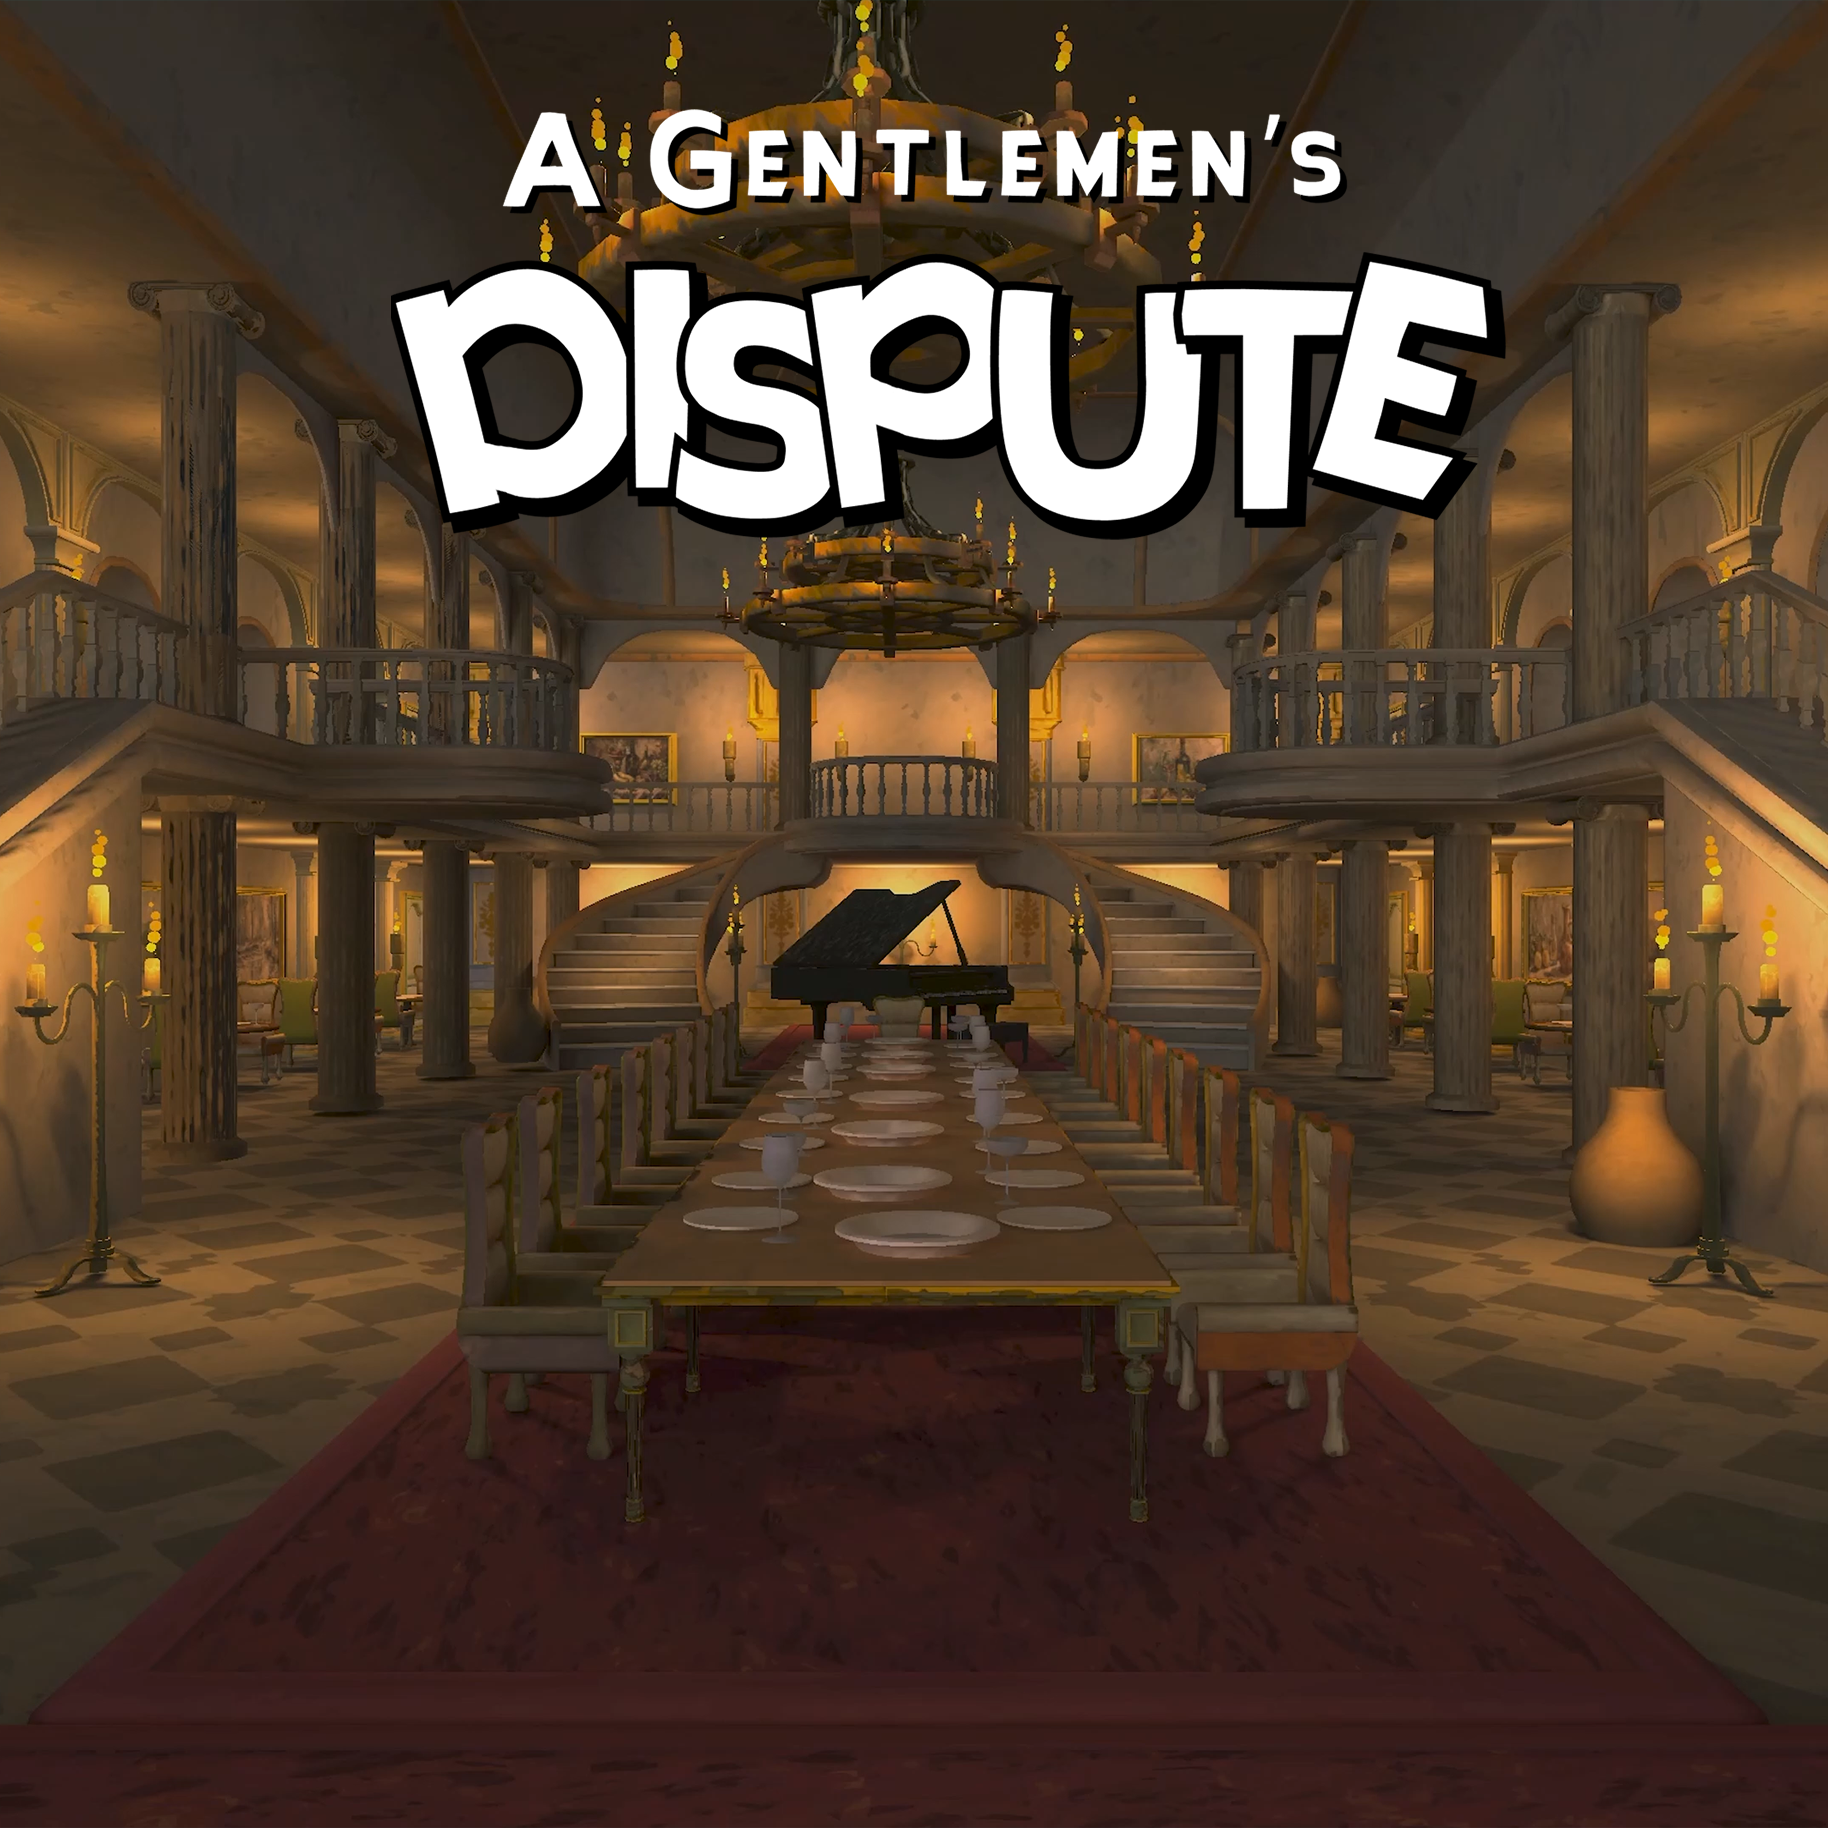
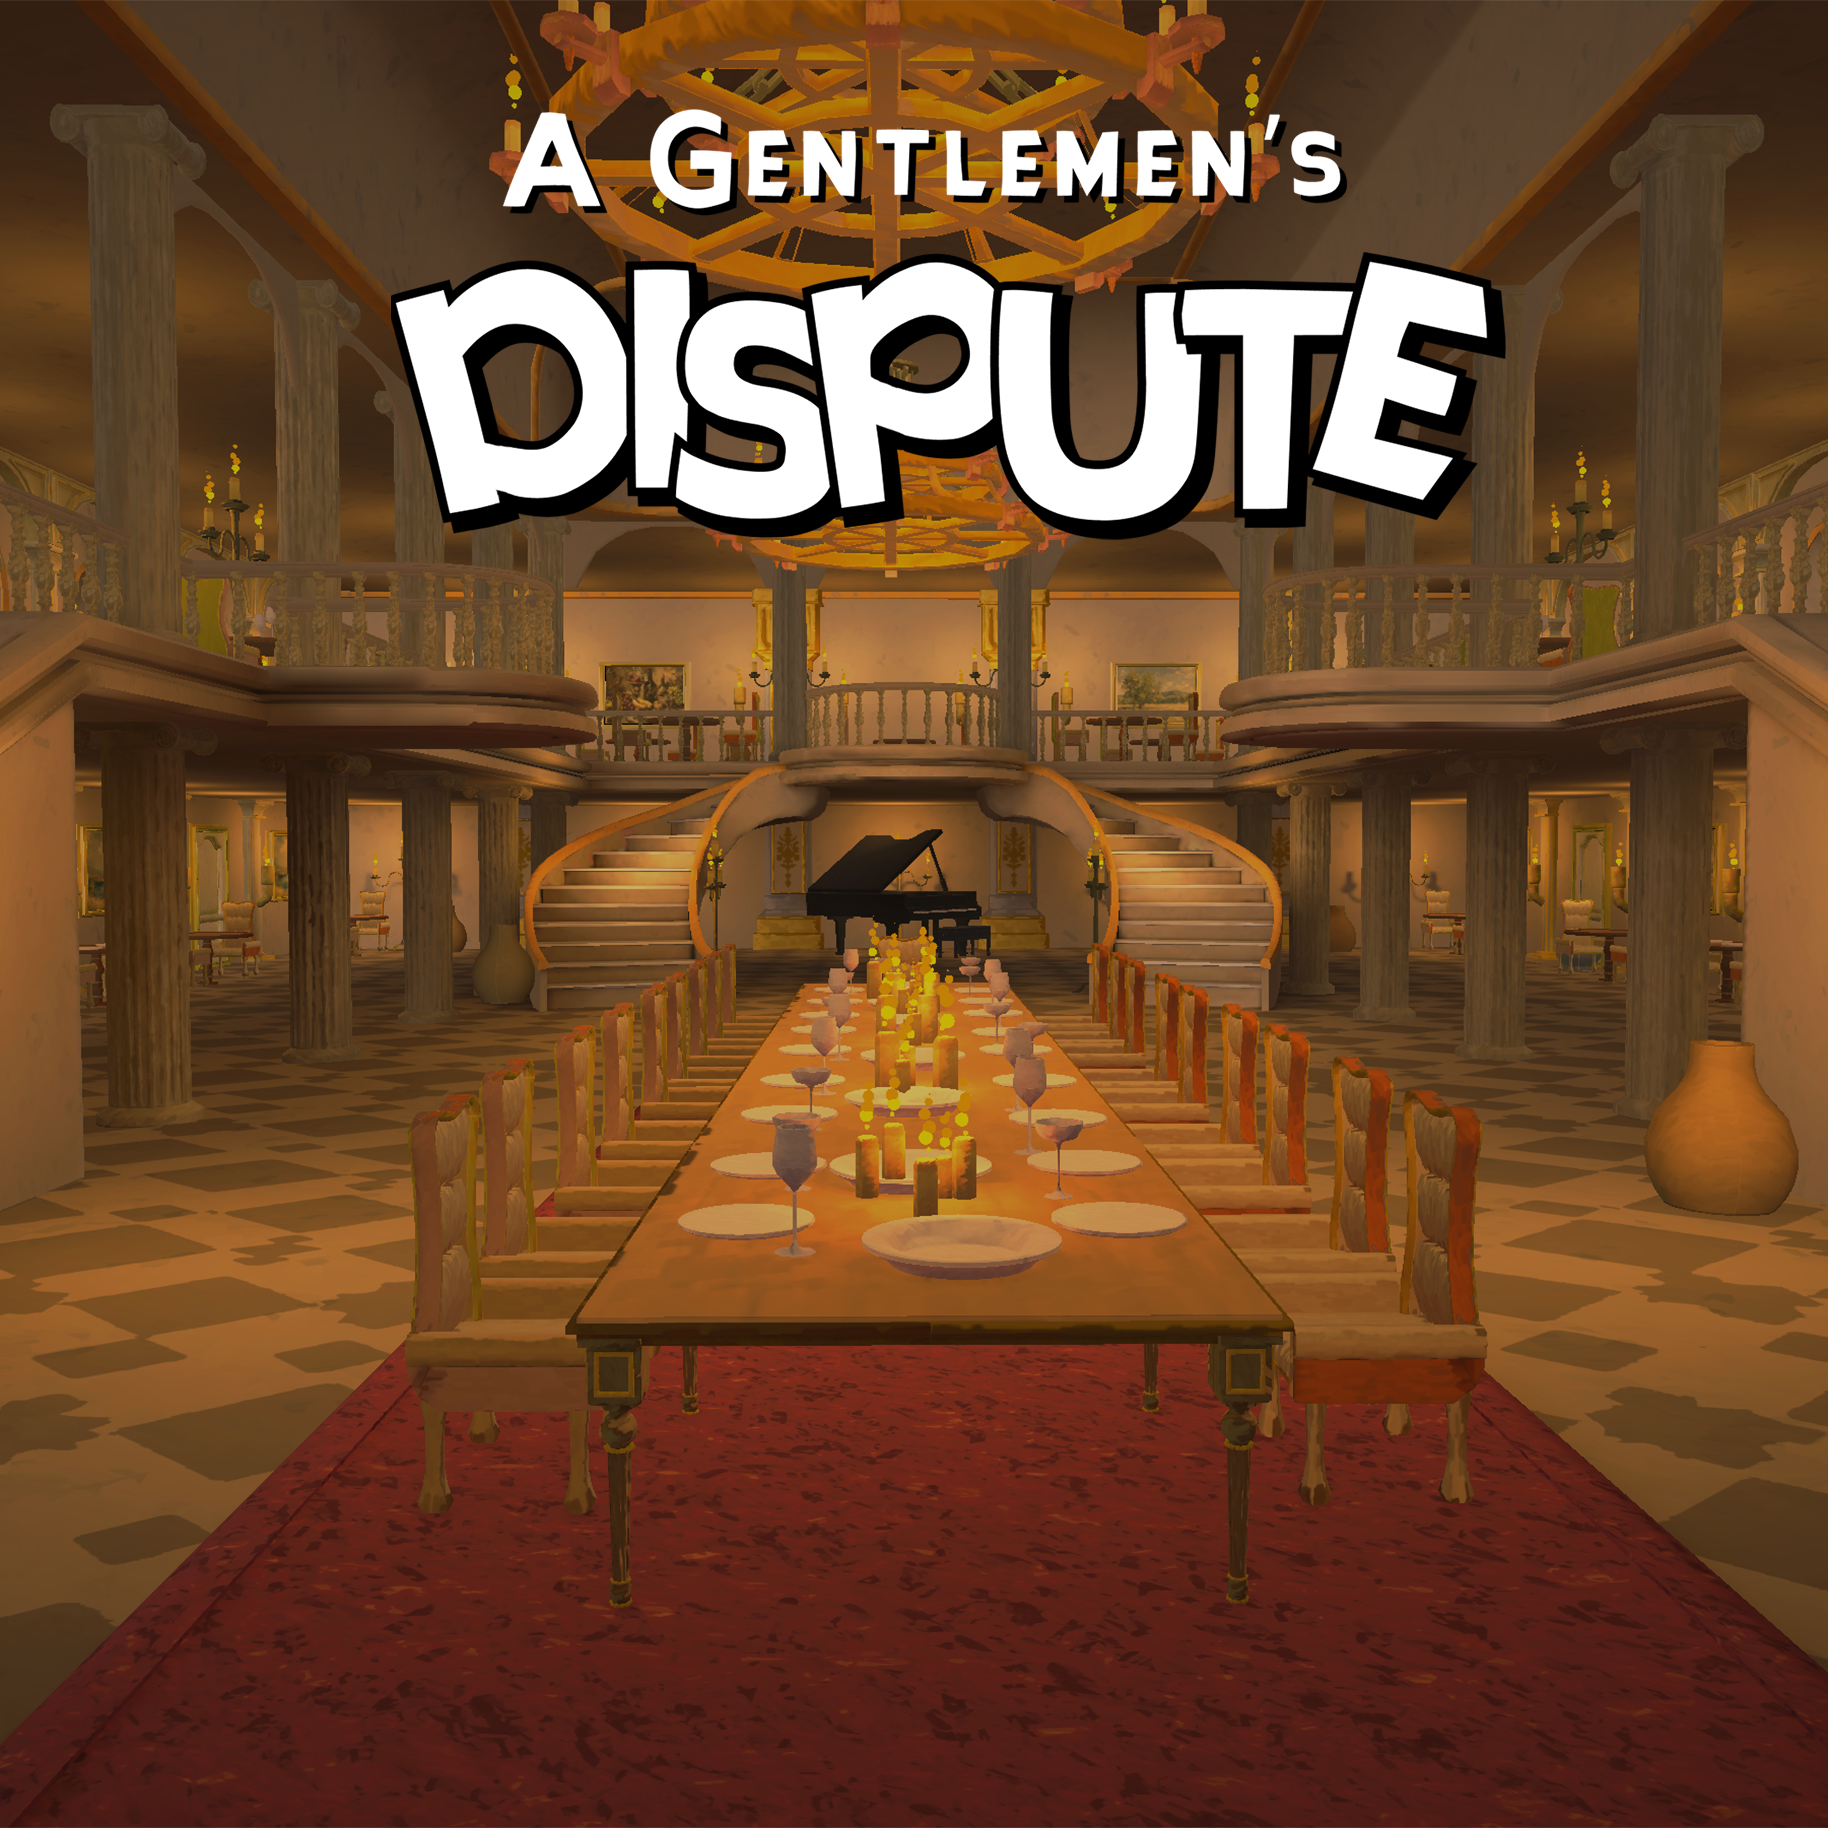
ballroom

diff --git a/_site/projects/agd/banquet-hall.html b/_site/projects/agd/banquet-hall.html
@@ -6,7 +6,7 @@
     <meta charset='utf-8'>
     <meta http-equiv="X-UA-Compatible" content="IE=edge">
     <meta name="viewport" content="width=device-width,maximum-scale=2">
-    <link rel="stylesheet" type="text/css" media="screen" href="/assets/css/style.css?v=e59b4e9a53c7caacb549c33bfa8aca94827cb23b">
+    <link rel="stylesheet" type="text/css" media="screen" href="/assets/css/style.css?v=abd233e458267bac9c2d311b64855ee965264efe">
 
   <!-- Begin Jekyll SEO tag v2.8.0 -->
 <title>Banquet Hall | Portfolio</title>
@@ -74,9 +74,39 @@
       <section id="main_content" class="inner">
         <h2 id="banquet-hall">Banquet Hall</h2>
 
-<p>Banquet hall is the second map for A Gentlemen’s Dispute. I had fun creating a highly decorated place for players to mess up! Most of the models are using the same painterly pipeline. This map is fully interior, so I am taking full adventage of light map baking to create realistic lighting. The lighting design in this map references classic royal dinners to make the place more “gentlemenly”.
-The torch fire VFX is created by our amazing VFX artist Kevin.</p>
+<p>Banquet hall is the second map for A Gentlemen’s Dispute. I had fun creating a highly decorated place for players to mess up! Most of the models are using the same painterly pipeline. This map is fully interior, so I am taking full adventage of light map baking to create realistic lighting. The lighting design in this map references classic royal dinners to make the place more “gentlemenly”.</p>
 
+<p>The torch fire VFX is created by our amazing VFX artist Kevin.</p>
+
+<p>All images or videos are directly taken from unity.</p>
+
+<p><img src="/assets/images/AGD/Banquethall_1.png" alt="Banquet hall 1" /></p>
+
+<p><img src="/assets/images/AGD/Banquethall_2.png" alt="Banquet hall 2" /></p>
+
+<p><img src="/assets/images/AGD/Banquethall_3.png" alt="Banquet hall 3" /></p>
+
+<p><img src="/assets/images/AGD/Banquethall_4.png" alt="Banquet hall 4" /></p>
+
+<p><img src="/assets/images/AGD/Banquethall_5.png" alt="Banquet hall 5" /></p>
+
+<p><img src="/assets/images/AGD/Banquethall_6.png" alt="Banquet hall 6" /></p>
+
+<p><img src="/assets/images/AGD/Banquethall_7.png" alt="Banquet hall 7" /></p>
+
+<h3 id="breakdown">Breakdown</h3>
+
+<p>Props modelled in Blender and textured in Substance Designer under the same painterly pipeline.</p>
+
+<p><img src="/assets/images/AGD/Banquethall_assets.png" alt="Banquet hall assets" /></p>
+
+<p>Paintings are AI-generated based on player characters with a European classic protrait style. It is then applied with the same painterly filter to match the style.</p>
+
+<p><img src="/assets/images/AGD/Banquethall_paintings.png" alt="Banquet hall paintings" /></p>
+
+<p>References for ornates and furnatures.</p>
+
+<p><img src="/assets/images/AGD/Banquethall_ref.png" alt="Banquet hall references" /></p>
 
       </section>
     </div>

diff --git a/_site/projects/agd/garden.html b/_site/projects/agd/garden.html
@@ -6,7 +6,7 @@
     <meta charset='utf-8'>
     <meta http-equiv="X-UA-Compatible" content="IE=edge">
     <meta name="viewport" content="width=device-width,maximum-scale=2">
-    <link rel="stylesheet" type="text/css" media="screen" href="/assets/css/style.css?v=e59b4e9a53c7caacb549c33bfa8aca94827cb23b">
+    <link rel="stylesheet" type="text/css" media="screen" href="/assets/css/style.css?v=abd233e458267bac9c2d311b64855ee965264efe">
 
   <!-- Begin Jekyll SEO tag v2.8.0 -->
 <title>Garden | Portfolio</title>
@@ -102,11 +102,17 @@
 
   <p>Early concept art exploring royal garden design</p>
 
-  <p><img src="/assets/images/AGD/Garden_moduleRock.png" alt="Garden Rock Module" /></p>
+  <p><img src="/assets/images/AGD/Garden_concept.png" alt="Garden Rock Module" /></p>
 
   <p>I referenced from both outdoor garden design as well as oil paintings to create such a stylized garden scene.</p>
 
-  <p><img src="/assets/images/AGD/Garden_moduleRock.png" alt="Garden Rock Module" /></p>
+</div>
+
+<div class="two-column">
+
+  <p><img src="/assets/images/AGD/Garden_ref_1.png" alt="Garden Reference 1" /></p>
+
+  <p><img src="/assets/images/AGD/Garden_ref_2.png" alt="Garden Reference 2" /></p>
 
 </div>
 

diff --git a/_site/projects/agd/the-blast-furnace.html b/_site/projects/agd/the-blast-furnace.html
@@ -6,7 +6,7 @@
     <meta charset='utf-8'>
     <meta http-equiv="X-UA-Compatible" content="IE=edge">
     <meta name="viewport" content="width=device-width,maximum-scale=2">
-    <link rel="stylesheet" type="text/css" media="screen" href="/assets/css/style.css?v=e59b4e9a53c7caacb549c33bfa8aca94827cb23b">
+    <link rel="stylesheet" type="text/css" media="screen" href="/assets/css/style.css?v=abd233e458267bac9c2d311b64855ee965264efe">
 
   <!-- Begin Jekyll SEO tag v2.8.0 -->
 <title>The Blast Furnace | Portfolio</title>
@@ -77,6 +77,8 @@
   <h2 id="the-blast-furnace">The Blast Furnace</h2>
 
   <p>Living in Pittsburgh, I am deeply inspired by the Carrie Blast Furnace Landmark and have always wanted to recreate this historic moment in the game. To better understand how blast furnaces work, I paid for several on-site visits and researched their mechanism and role in steel production. It was exciting to see everything come together in the game, and I definitely couldn’t wait to see chaotic fights in such a hazardous place!</p>
+
+  <p>All images or videos are directly taken from unity.</p>
 
   <p><img src="/assets/images/AGD/Factory_1.png" alt="Factory 1" /></p>
 

diff --git a/_site/projects/agd/island.html b/_site/projects/agd/island.html
@@ -6,7 +6,7 @@
     <meta charset='utf-8'>
     <meta http-equiv="X-UA-Compatible" content="IE=edge">
     <meta name="viewport" content="width=device-width,maximum-scale=2">
-    <link rel="stylesheet" type="text/css" media="screen" href="/assets/css/style.css?v=e59b4e9a53c7caacb549c33bfa8aca94827cb23b">
+    <link rel="stylesheet" type="text/css" media="screen" href="/assets/css/style.css?v=abd233e458267bac9c2d311b64855ee965264efe">
 
   <!-- Begin Jekyll SEO tag v2.8.0 -->
 <title>Island | Portfolio</title>
@@ -76,6 +76,8 @@
 
   <h2 id="island">Island</h2>
   <p>I had fun creating a relaxing vacation beach scene. Since a large proportion of the level is going to be water, I spent most time creating a custom water shader. It has fully adjustable parameters to control the caustic pattern as well as the wave movement. Besides, this is a bigger level, so working in modular mindset is key. Thus, I modelled wooden planks and rocks in different variations, which I could later use to create wooden structures and rock cliffs.</p>
+
+  <p>All images or videos are directly taken from unity.</p>
 
   <p><img src="/assets/images/AGD/Island_1.png" alt="Island 1" /></p>
 

diff --git a/_site/projects/agd/pancake-palace.html b/_site/projects/agd/pancake-palace.html
@@ -6,7 +6,7 @@
     <meta charset='utf-8'>
     <meta http-equiv="X-UA-Compatible" content="IE=edge">
     <meta name="viewport" content="width=device-width,maximum-scale=2">
-    <link rel="stylesheet" type="text/css" media="screen" href="/assets/css/style.css?v=e59b4e9a53c7caacb549c33bfa8aca94827cb23b">
+    <link rel="stylesheet" type="text/css" media="screen" href="/assets/css/style.css?v=abd233e458267bac9c2d311b64855ee965264efe">
 
   <!-- Begin Jekyll SEO tag v2.8.0 -->
 <title>Pancake Palace | Portfolio</title>
@@ -74,6 +74,7 @@
       <section id="main_content" class="inner">
         <h2 id="pancake-palace">Pancake Palace</h2>
 
+<p>All images or videos are directly taken from unity.</p>
 
       </section>
     </div>

diff --git a/_site/projects/agd/metro.html b/_site/projects/agd/metro.html
@@ -6,7 +6,7 @@
     <meta charset='utf-8'>
     <meta http-equiv="X-UA-Compatible" content="IE=edge">
     <meta name="viewport" content="width=device-width,maximum-scale=2">
-    <link rel="stylesheet" type="text/css" media="screen" href="/assets/css/style.css?v=e59b4e9a53c7caacb549c33bfa8aca94827cb23b">
+    <link rel="stylesheet" type="text/css" media="screen" href="/assets/css/style.css?v=abd233e458267bac9c2d311b64855ee965264efe">
 
   <!-- Begin Jekyll SEO tag v2.8.0 -->
 <title>Metro | Portfolio</title>
@@ -74,6 +74,7 @@
       <section id="main_content" class="inner">
         <h2 id="metro">Metro</h2>
 
+<p>All images or videos are directly taken from unity.</p>
 
       </section>
     </div>

diff --git a/_site/computer-graphics.html b/_site/computer-graphics.html
@@ -6,7 +6,7 @@
     <meta charset='utf-8'>
     <meta http-equiv="X-UA-Compatible" content="IE=edge">
     <meta name="viewport" content="width=device-width,maximum-scale=2">
-    <link rel="stylesheet" type="text/css" media="screen" href="/assets/css/style.css?v=e59b4e9a53c7caacb549c33bfa8aca94827cb23b">
+    <link rel="stylesheet" type="text/css" media="screen" href="/assets/css/style.css?v=abd233e458267bac9c2d311b64855ee965264efe">
 
   <!-- Begin Jekyll SEO tag v2.8.0 -->
 <title>Computer Graphics | Portfolio</title>

diff --git a/_site/tech-art.html b/_site/tech-art.html
@@ -6,7 +6,7 @@
     <meta charset='utf-8'>
     <meta http-equiv="X-UA-Compatible" content="IE=edge">
     <meta name="viewport" content="width=device-width,maximum-scale=2">
-    <link rel="stylesheet" type="text/css" media="screen" href="/assets/css/style.css?v=e59b4e9a53c7caacb549c33bfa8aca94827cb23b">
+    <link rel="stylesheet" type="text/css" media="screen" href="/assets/css/style.css?v=abd233e458267bac9c2d311b64855ee965264efe">
 
   <!-- Begin Jekyll SEO tag v2.8.0 -->
 <title>Tech Art | Portfolio</title>

diff --git a/_site/3d-art.html b/_site/3d-art.html
@@ -6,7 +6,7 @@
     <meta charset='utf-8'>
     <meta http-equiv="X-UA-Compatible" content="IE=edge">
     <meta name="viewport" content="width=device-width,maximum-scale=2">
-    <link rel="stylesheet" type="text/css" media="screen" href="/assets/css/style.css?v=e59b4e9a53c7caacb549c33bfa8aca94827cb23b">
+    <link rel="stylesheet" type="text/css" media="screen" href="/assets/css/style.css?v=abd233e458267bac9c2d311b64855ee965264efe">
 
   <!-- Begin Jekyll SEO tag v2.8.0 -->
 <title>3D Art | Portfolio</title>

diff --git a/_site/projects/camera.html b/_site/projects/camera.html
@@ -6,7 +6,7 @@
     <meta charset='utf-8'>
     <meta http-equiv="X-UA-Compatible" content="IE=edge">
     <meta name="viewport" content="width=device-width,maximum-scale=2">
-    <link rel="stylesheet" type="text/css" media="screen" href="/assets/css/style.css?v=e59b4e9a53c7caacb549c33bfa8aca94827cb23b">
+    <link rel="stylesheet" type="text/css" media="screen" href="/assets/css/style.css?v=abd233e458267bac9c2d311b64855ee965264efe">
 
   <!-- Begin Jekyll SEO tag v2.8.0 -->
 <title>Camera | Portfolio</title>

diff --git a/_site/index.html b/_site/index.html
@@ -6,7 +6,7 @@
     <meta charset='utf-8'>
     <meta http-equiv="X-UA-Compatible" content="IE=edge">
     <meta name="viewport" content="width=device-width,maximum-scale=2">
-    <link rel="stylesheet" type="text/css" media="screen" href="/assets/css/style.css?v=e59b4e9a53c7caacb549c33bfa8aca94827cb23b">
+    <link rel="stylesheet" type="text/css" media="screen" href="/assets/css/style.css?v=abd233e458267bac9c2d311b64855ee965264efe">
 
   <!-- Begin Jekyll SEO tag v2.8.0 -->
 <title>Home | Portfolio</title>

diff --git a/projects/agd/banquet-hall.md b/projects/agd/banquet-hall.md
@@ -6,5 +6,35 @@ title: Banquet Hall
 ## Banquet Hall
 
 Banquet hall is the second map for A Gentlemen's Dispute. I had fun creating a highly decorated place for players to mess up! Most of the models are using the same painterly pipeline. This map is fully interior, so I am taking full adventage of light map baking to create realistic lighting. The lighting design in this map references classic royal dinners to make the place more "gentlemenly".
+
 The torch fire VFX is created by our amazing VFX artist Kevin.
 
+All images or videos are directly taken from unity.
+
+![Banquet hall 1](/assets/images/AGD/Banquethall_1.png)
+
+![Banquet hall 2](/assets/images/AGD/Banquethall_2.png)
+
+![Banquet hall 3](/assets/images/AGD/Banquethall_3.png)
+
+![Banquet hall 4](/assets/images/AGD/Banquethall_4.png)
+
+![Banquet hall 5](/assets/images/AGD/Banquethall_5.png)
+
+![Banquet hall 6](/assets/images/AGD/Banquethall_6.png)
+
+![Banquet hall 7](/assets/images/AGD/Banquethall_7.png)
+
+### Breakdown
+
+Props modelled in Blender and textured in Substance Designer under the same painterly pipeline.
+
+![Banquet hall assets](/assets/images/AGD/Banquethall_assets.png)
+
+Paintings are AI-generated based on player characters with a European classic protrait style. It is then applied with the same painterly filter to match the style.
+
+![Banquet hall paintings](/assets/images/AGD/Banquethall_paintings.png)
+
+References for ornates and furnatures.
+
+![Banquet hall references](/assets/images/AGD/Banquethall_ref.png)
